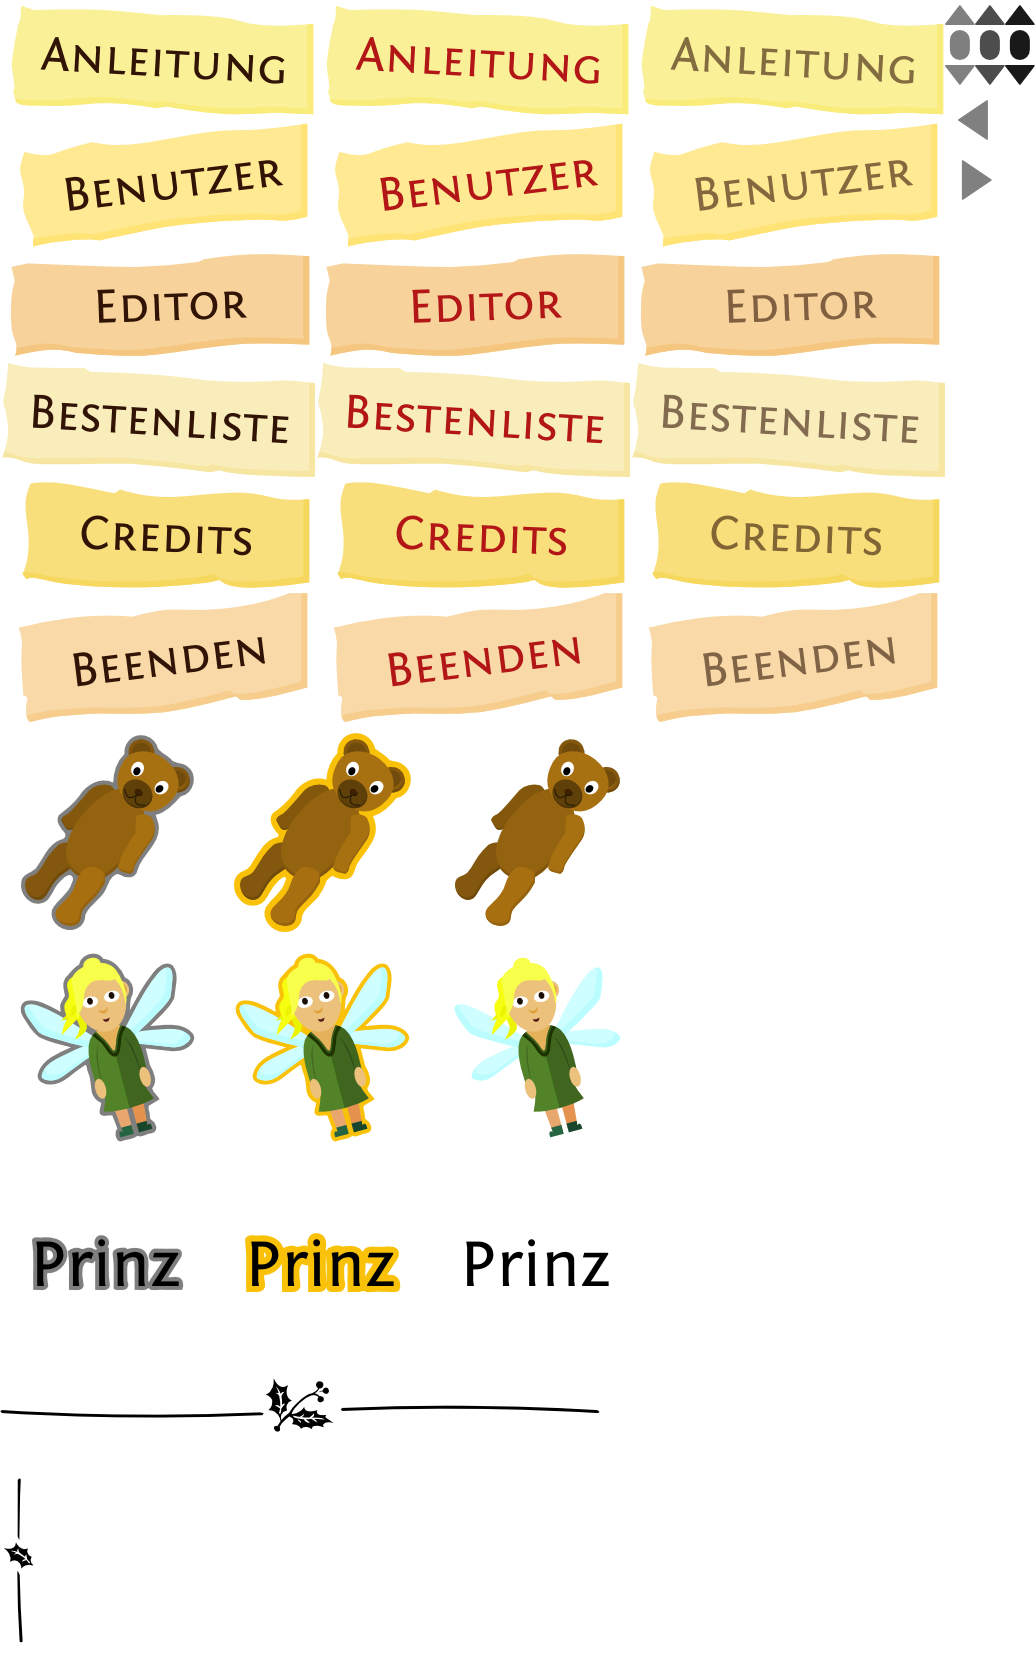
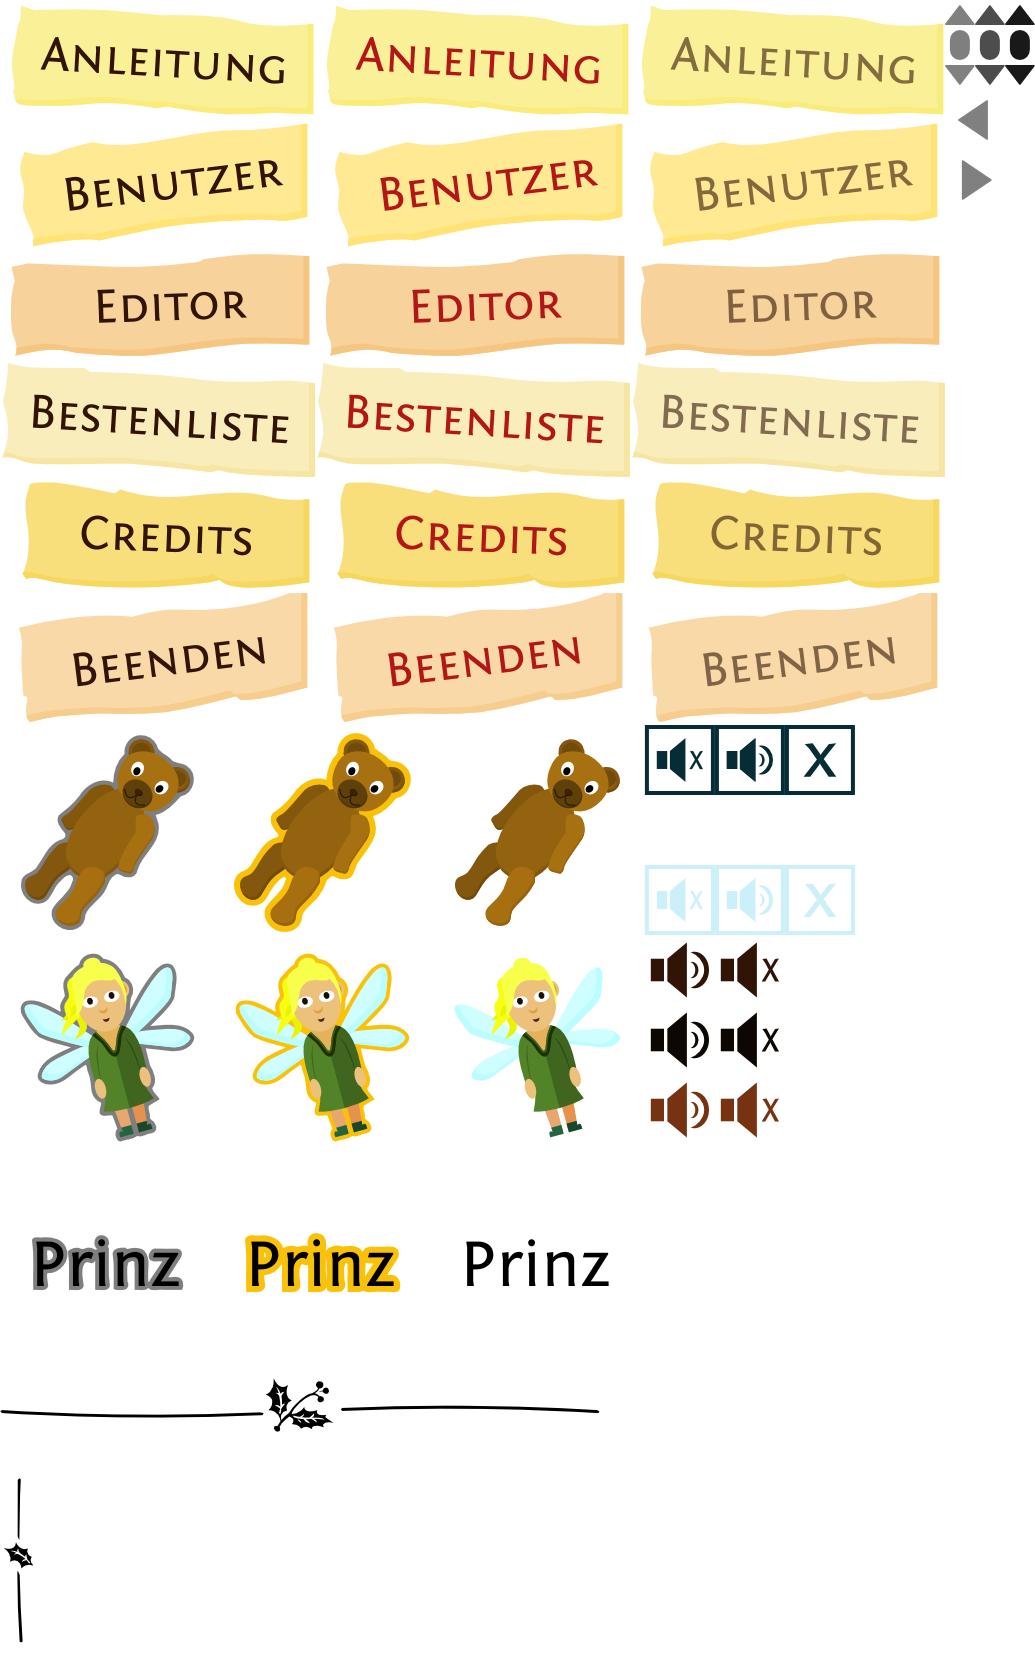
Musik-Button

Changed region(s): [[0.6184, 0.4333, 0.8348, 0.681]]

diff --git a/StoryBear/src/com/opticalcobra/storybear/game/Window.java b/StoryBear/src/com/opticalcobra/storybear/game/Window.java
@@ -2,6 +2,7 @@ package com.opticalcobra.storybear.game;
 
 import java.awt.Color;
 import java.awt.Font;
+import java.awt.image.BufferedImage;
 import java.sql.SQLException;
 import java.util.Timer;
 
@@ -19,6 +20,7 @@ import com.opticalcobra.storybear.main.OSTimer;
 import com.opticalcobra.storybear.main.User;
 import com.opticalcobra.storybear.res.Button;
 import com.opticalcobra.storybear.res.Imagelib;
+import com.opticalcobra.storybear.res.MusicButton;
 import com.opticalcobra.storybear.res.Ressources;
 import com.opticalcobra.storybear.res.StoryBearRandom;
 
@@ -37,7 +39,7 @@ public class Window extends JFrame {
 	private int stepCounterLayer = 0;
 	private Control controle;
 	
-	private Button buttonMenu;
+	private MusicButton buttonMenu;
 	private Button buttonBreak;
 	private Button buttonExit;
 	private JLabel labelScore = new JLabel();
@@ -126,34 +128,17 @@ public class Window extends JFrame {
 		
 		
 		//initialize Buttons
-		this.buttonMenu = new Button("menu",
-				Imagelib.getInstance().menuImage(Imagelib.GAME_BUTTON_MENU_BLACK),
-				Imagelib.getInstance().menuImage(Imagelib.GAME_BUTTON_MENU_WHITE),
-				Imagelib.getInstance().menuImage(Imagelib.GAME_BUTTON_MENU_GREY),
-				Imagelib.getInstance().menuImage(Imagelib.GAME_BUTTON_MENU_BLACK),
-				Ressources.BUTTONDISTANCE, Ressources.BUTTONDISTANCE
-				);
-		this.buttonMenu.setFocusable(false);
-		this.buttonMenu.addActionListener(controle);
+		BufferedImage[] normal = {};
+		BufferedImage[] mute = {};
+		this.buttonMenu = new MusicButton(normal, mute, Ressources.BUTTONDISTANCE, Ressources.BUTTONDISTANCE);
 		this.baseLayer.add(this.buttonMenu);
-		
-		this.buttonBreak = new Button("pause",
-				Imagelib.getInstance().menuImage(Imagelib.GAME_BUTTON_BREAK_BLACK),
-				Imagelib.getInstance().menuImage(Imagelib.GAME_BUTTON_BREAK_WHITE),
-				Imagelib.getInstance().menuImage(Imagelib.GAME_BUTTON_BREAK_GREY),
-				Imagelib.getInstance().menuImage(Imagelib.GAME_BUTTON_BREAK_BLACK),
-				2*Ressources.BUTTONDISTANCE+Ressources.BUTTONSIZE, Ressources.BUTTONDISTANCE
-				);	
-		this.buttonBreak.setFocusable(false);
-		this.buttonBreak.addActionListener(controle);
-		this.baseLayer.add(this.buttonBreak);
 		
 		this.buttonExit = new Button("close",
 				Imagelib.getInstance().menuImage(Imagelib.GAME_BUTTON_EXIT_BLACK),
 				Imagelib.getInstance().menuImage(Imagelib.GAME_BUTTON_EXIT_WHITE),
 				Imagelib.getInstance().menuImage(Imagelib.GAME_BUTTON_EXIT_GREY),
 				Imagelib.getInstance().menuImage(Imagelib.GAME_BUTTON_EXIT_BLACK),
-				3*Ressources.BUTTONDISTANCE+2*Ressources.BUTTONSIZE, Ressources.BUTTONDISTANCE
+				2*Ressources.BUTTONDISTANCE+Ressources.BUTTONSIZE, Ressources.BUTTONDISTANCE
 				);
 		this.buttonExit.setFocusable(false);
 		this.buttonExit.addActionListener(controle);

diff --git a/StoryBear/src/com/opticalcobra/storybear/menu/Menu.java b/StoryBear/src/com/opticalcobra/storybear/menu/Menu.java
@@ -6,6 +6,7 @@ import javax.sound.sampled.Clip;
 import javax.sound.sampled.LineUnavailableException;
 import javax.sound.sampled.UnsupportedAudioFileException;
 import javax.swing.ImageIcon;
+import javax.swing.JButton;
 import javax.swing.JComponent;
 import javax.swing.JDialog;
 import javax.swing.JFrame;
@@ -15,8 +16,11 @@ import javax.swing.JPanel;
 import com.opticalcobra.storybear.db.Database;
 import com.opticalcobra.storybear.editor.Editor;
 import com.opticalcobra.storybear.editor.Loadingscreen;
+import com.opticalcobra.storybear.res.Button;
 import com.opticalcobra.storybear.res.FontCache;
 import com.opticalcobra.storybear.res.Imagelib;
+import com.opticalcobra.storybear.res.MusicButton;
+import com.opticalcobra.storybear.res.MusicPlayer;
 import com.opticalcobra.storybear.main.User;
 import com.opticalcobra.storybear.menu.MenuButton;
 import com.opticalcobra.storybear.res.Ressources;
@@ -26,6 +30,9 @@ import java.awt.Container;
 import java.awt.Cursor;
 import java.awt.Font;
 import java.awt.Rectangle;
+import java.awt.event.ActionEvent;
+import java.awt.event.ActionListener;
+import java.awt.image.BufferedImage;
 import java.io.File;
 import java.io.IOException;
 import java.sql.SQLException;
@@ -42,6 +49,7 @@ public class Menu extends JFrame {
 	public BookBox bookBox;
 	public Container me;
 	public MenuButton navManu,navUser,navEditor,navHigh, navCredits, navExit;
+	public JButton musicButton;
 	public JPanel loading;
 	
 	private Imagelib imagelib;
@@ -55,6 +63,9 @@ public class Menu extends JFrame {
 		
 		// Loading
 		initializeLoadingBox();
+		
+		// MusicButton
+		initializeMusicButton();
 		
 		// BookBox
 		initializeBookBox();
@@ -183,6 +194,13 @@ public class Menu extends JFrame {
 		background.setBounds(0, 0, (int)(1920/Ressources.SCALE), (int)(1080/Ressources.SCALE));
 		getContentPane().add(background);
 		background.setIcon(new ImageIcon(imagelib.loadDesignImage("menu_bg")));
+	}
+	
+	private void initializeMusicButton() {
+		BufferedImage[] normal = {};
+		BufferedImage[] mute = {};
+		MusicButton musicButton = new MusicButton(normal, mute, 645, 725);
+		getContentPane().add(musicButton);
 	}
 	
 	private void initializeLoadingBox() {

diff --git a/StoryBear/src/com/opticalcobra/storybear/res/Button.java b/StoryBear/src/com/opticalcobra/storybear/res/Button.java
@@ -1,9 +1,6 @@
 package com.opticalcobra.storybear.res;
 
-import java.awt.Cursor;
 import java.awt.Dimension;
-import java.awt.event.ActionEvent;
-import java.awt.event.ActionListener;
 import java.awt.image.BufferedImage;
 
 import javax.swing.ImageIcon;
@@ -12,7 +9,21 @@ import javax.swing.JButton;
 public class Button extends JButton {
 	private String method;
 
-	//invisible Button
+	public Button(BufferedImage normal, BufferedImage hover, BufferedImage clicked, BufferedImage disabled, int x, int y){
+		setIcon(new ImageIcon(normal));
+		setRolloverIcon(new ImageIcon(hover));
+        setPressedIcon(new ImageIcon(clicked));
+        setDisabledIcon(new ImageIcon(disabled));
+        
+        setBorder(null);
+        setBorderPainted(false);
+        setContentAreaFilled(false);
+        setPreferredSize(new Dimension(normal.getWidth(),normal.getHeight()));
+        setCursor(Ressources.CURSORCLICKABLE);
+        
+        setBounds(x, y, normal.getWidth(),normal.getHeight());
+	}
+	
 	public Button(String method, int width, int height, int x, int y){
 		this.method = method;
 		setBorder(null);
@@ -23,7 +34,6 @@ public class Button extends JButton {
         setBounds(x, y, width,height);
 	}
 
-	//visible Button
 	public Button(String method, BufferedImage normal, BufferedImage hover, BufferedImage clicked, BufferedImage disabled, int x, int y){
 		this.method = method;
 		setIcon(new ImageIcon(normal));

diff --git a/StoryBear/src/com/opticalcobra/storybear/res/MusicPlayer.java b/StoryBear/src/com/opticalcobra/storybear/res/MusicPlayer.java
@@ -21,6 +21,8 @@ public class MusicPlayer {
 	
 	private Clip clip;
 	private AudioInputStream audio;
+	private boolean running;
+	private boolean disabled = false;
 	
 	/**
 	 * 
@@ -30,13 +32,17 @@ public class MusicPlayer {
 			audio = AudioSystem.getAudioInputStream(new File(Ressources.RESPATH+musicFile).getAbsoluteFile());
 			clip = AudioSystem.getClip();
 			clip.open(audio);
-		} catch (LineUnavailableException | IOException | UnsupportedAudioFileException e) {}
+		} catch (LineUnavailableException | IOException | UnsupportedAudioFileException e) {
+			disabled = true;
+		}
 	}
 	
 	/**
 	 * play sound in loop
 	 */
 	public void start() {
+		if (disabled) return;
+		running = true;
 		clip.loop(Clip.LOOP_CONTINUOUSLY);
 	}
 	
@@ -44,7 +50,21 @@ public class MusicPlayer {
 	 * pause
 	 */
 	public void pause() {
+		if (disabled) return;
+		running = false;
 		clip.stop();
+	}
+	
+	/**
+	 * toggle
+	 */
+	public boolean toggle()  {
+		if (disabled) return disabled;
+		if(running)
+			clip.stop();
+		else
+			clip.start();
+		return running;
 	}
 	
 	

diff --git a/StoryBear/src/com/opticalcobra/storybear/res/MusicButton.java b/StoryBear/src/com/opticalcobra/storybear/res/MusicButton.java
@@ -1,0 +1,39 @@
+package com.opticalcobra.storybear.res;
+
+import java.awt.event.ActionEvent;
+import java.awt.event.ActionListener;
+import java.awt.image.BufferedImage;
+
+import javax.swing.ImageIcon;
+import javax.swing.JButton;
+
+public class MusicButton extends JButton implements ActionListener {
+	ImageIcon[] now = new ImageIcon[3];;
+	ImageIcon[] next = new ImageIcon[3];;
+	
+	public MusicButton(BufferedImage[] normal, BufferedImage[] mute, int x, int y) {		
+		for(int i = 0; i<3; i++) {
+			now[i] = new ImageIcon(normal[i]);
+			next[i] = new ImageIcon(mute[i]);
+		}
+		
+		setCursor(Ressources.CURSORCLICKABLE);
+		setIcon(now[0]);
+		setRolloverIcon(now[1]);
+		setPressedIcon(now[2]);
+		setFocusable(false);
+		setBounds(x, y, now[0].getIconWidth(), now[0].getIconHeight());
+	}
+
+	@Override
+	public void actionPerformed(ActionEvent e) {
+		MusicPlayer.getInstance().toggle();
+		ImageIcon[] temp = now;
+		now = next;
+		next = temp;
+		
+		setIcon(now[0]);
+		setRolloverIcon(now[1]);
+		setPressedIcon(now[2]);
+	}
+}
